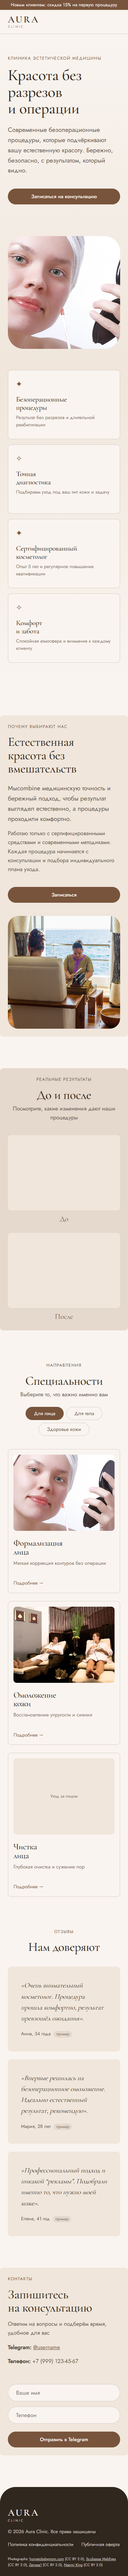
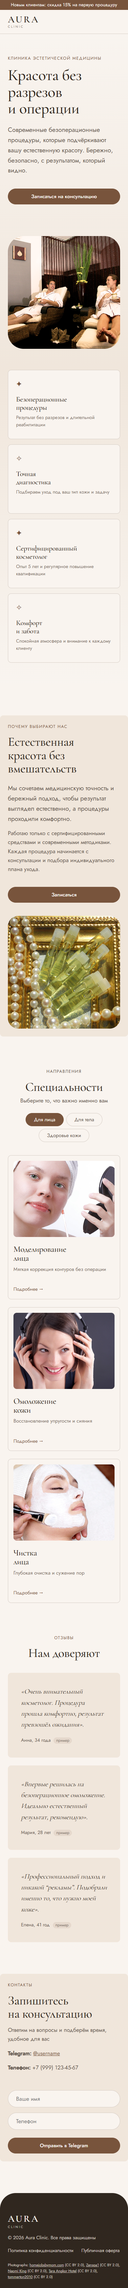
лендинг: исправление логики фото и текстовых ошибок

diff --git a/index.html b/index.html
@@ -24,7 +24,6 @@
         <ul class="nav-links">
           <li><a href="#specialties">Услуги</a></li>
           <li><a href="#about">Обо мне</a></li>
-          <li><a href="#results">Результаты</a></li>
           <li><a href="#contacts">Контакты</a></li>
         </ul>
       </nav>
@@ -42,7 +41,7 @@
         <a href="https://t.me/username" class="btn btn--primary" target="_blank" rel="noopener">Записаться на консультацию</a>
       </div>
       <div class="hero-image">
-        <div class="placeholder" data-slot="hero" data-alt="Косметолог в светлом кабинете, Portrait"></div>
+        <div class="placeholder" data-slot="hero" data-alt="Гости в халатах отдыхают в зоне SPA"></div>
       </div>
     </div>
   </section>
@@ -79,33 +78,12 @@
       <div class="about-text">
         <p class="eyebrow-note">Почему выбирают нас</p>
         <h2>Естественная красота без вмешательств</h2>
-        <p class="lead">Мыcombine медицинскую точность и бережный подход, чтобы результат выглядел естественно, а процедуры проходили комфортно.</p>
+        <p class="lead">Мы сочетаем медицинскую точность и бережный подход, чтобы результат выглядел естественно, а процедуры проходили комфортно.</p>
         <p>Работаю только с сертифицированными средствами и современными методиками. Каждая процедура начинается с консультации и подбора индивидуального плана ухода.</p>
         <a href="https://t.me/username" class="btn btn--primary" target="_blank" rel="noopener">Записаться</a>
       </div>
       <div class="about-image">
-        <div class="placeholder" data-slot="about" data-alt="Косметолог за работой в светлом кабинете"></div>
-      </div>
-    </div>
-  </section>
-
-  <!-- До / После -->
-  <section class="results" id="results">
-    <div class="container results-inner">
-      <div class="results-head">
-        <p class="eyebrow-note">Реальные результаты</p>
-        <h2>До и после</h2>
-        <p>Посмотрите, какие изменения дают наши процедуры</p>
-      </div>
-      <div class="results-grid">
-        <figure class="compare">
-          <div class="placeholder" data-slot="process-1" data-alt="Клиентка до процедуры"></div>
-          <figcaption>До</figcaption>
-        </figure>
-        <figure class="compare">
-          <div class="placeholder" data-slot="process-2" data-alt="Клиентка после процедуры"></div>
-          <figcaption>После</figcaption>
-        </figure>
+        <div class="placeholder" data-slot="about" data-alt="Средства для ухода: аромамасла"></div>
       </div>
     </div>
   </section>
@@ -125,19 +103,19 @@
       </div>
       <div class="services-grid" id="tab-face">
         <article class="service-card">
-          <div class="card-img"><div class="placeholder" data-slot="process-3" data-alt="Процедура ухода за лицом"></div></div>
-          <h3>Формализация<br>лица</h3>
+          <div class="card-img"><div class="placeholder" data-slot="process-3" data-alt="Девушка оценивает кожу лица в зеркале"></div></div>
+          <h3>Моделирование<br>лица</h3>
           <p>Мягкая коррекция контуров без операции</p>
           <span class="card-more">Подробнее →</span>
         </article>
         <article class="service-card">
-          <div class="card-img"><div class="placeholder" data-slot="process-4" data-alt="Уход за кожей лица"></div></div>
+          <div class="card-img"><div class="placeholder" data-slot="process-4" data-alt="Крупный план ухоженной кожи лица"></div></div>
           <h3>Омоложение<br>кожи</h3>
           <p>Восстановление упругости и сияния</p>
           <span class="card-more">Подробнее →</span>
         </article>
         <article class="service-card">
-          <div class="card-img"><div class="placeholder" data-slot="process-1" data-alt="Уход за лицом"></div></div>
+          <div class="card-img"><div class="placeholder" data-slot="process-1" data-alt="Нанесение очищающей маски на лицо"></div></div>
           <h3>Чистка<br>лица</h3>
           <p>Глубокая очистка и сужение пор</p>
           <span class="card-more">Подробнее →</span>

diff --git a/styles.css b/styles.css
@@ -85,16 +85,6 @@ h1, h2, h3 { font-family: var(--font-display); font-weight: 500; letter-spacing:
 .about p:not(.eyebrow-note):not(.lead) { color: var(--color-ink-2); margin-bottom: var(--space-xl); }
 .about-image .placeholder { aspect-ratio: 1; border-radius: calc(var(--radius-section) - 16px); }
 
-/* Results — before/after */
-.results { padding: 0 0 var(--space-3xl); }
-.results-inner { background: var(--color-paper-3); border-radius: var(--radius-section); padding: var(--space-3xl); }
-.results-head { text-align: center; margin-bottom: var(--space-xl); }
-.results-head h2 { font-size: clamp(2.4rem, 4vw, 3.4rem); margin-bottom: var(--space-sm); }
-.results-head p { color: var(--color-ink-2); }
-.results-grid { display: grid; grid-template-columns: 1fr 1fr; gap: var(--space-lg); }
-.compare .placeholder { aspect-ratio: 3/2; border-radius: var(--radius-card); }
-.compare figcaption { font-family: var(--font-display); font-size: 1.4rem; text-align: center; margin-top: var(--space-sm); color: var(--color-ink-2); }
-
 /* Services */
 .services { padding: 0 0 var(--space-3xl); }
 .services-head { text-align: center; margin-bottom: var(--space-lg); }
@@ -154,9 +144,9 @@ footer a { color: var(--color-rule); font-size: 0.9rem; text-decoration: none; }
   .nav-links { display: none; }
   .hero-inner, .about-inner, .contacts-inner { grid-template-columns: 1fr; }
   .hero h1 { max-width: none; }
-  .results-grid, .services-grid, .reviews-grid { grid-template-columns: 1fr; }
+  .services-grid, .reviews-grid { grid-template-columns: 1fr; }
   .strip-grid { grid-template-columns: 1fr 1fr; }
-  .about-inner, .contacts-inner, .results-inner { border-radius: var(--radius-card); padding: var(--space-lg); }
+  .about-inner, .contacts-inner { border-radius: var(--radius-card); padding: var(--space-lg); }
   .nav-cta { display: none; }
 }
 @media (max-width: 480px) {

diff --git a/script.js b/script.js
@@ -19,19 +19,19 @@ function hallmarkSlots(slots) {
 
 document.addEventListener('DOMContentLoaded', () => {
   hallmarkSlots({
-    hero: 'images/about.jpg',
-    about: 'images/process-mask.jpg',
-    'process-1': 'images/process-consultation.jpg',
-    'process-2': 'images/process-result.jpg',
+    hero: 'images/process-finish.jpg',
+    about: 'images/process-result.jpg',
     'process-3': 'images/about.jpg',
-    'process-4': 'images/process-finish.jpg',
+    'process-4': 'images/beauty-face.jpg',
+    'process-1': 'images/process-consultation.jpg',
   });
 
   const credits = {
     a: '<a href="https://www.flickr.com/photos/76588981@N02/11179260694" target="_blank" rel="noopener">homejobsbymom.com</a> (CC BY 2.0)',
-    b: '<a href="https://www.flickr.com/photos/145748390@N03/30273731091" target="_blank" rel="noopener">Scubaspa Maldives</a> (CC BY 2.0)',
-    c: '<a href="https://www.flickr.com/photos/93609956@N05/9865582355" target="_blank" rel="noopener">Zenspa1</a> (CC BY 2.0)',
-    d: '<a href="https://www.flickr.com/photos/22141297@N06/7798556096" target="_blank" rel="noopener">Naomi King</a> (CC BY 2.0)',
+    b: '<a href="https://www.flickr.com/photos/93609956@N05/9865582355" target="_blank" rel="noopener">Zenspa1</a> (CC BY 2.0)',
+    c: '<a href="https://www.flickr.com/photos/22141297@N06/7798556096" target="_blank" rel="noopener">Naomi King</a> (CC BY 2.0)',
+    d: '<a href="https://www.flickr.com/photos/47808661@N07/5918124637" target="_blank" rel="noopener">Tara Angkor Hotel</a> (CC BY 2.0)',
+    e: '<a href="https://www.flickr.com/photos/58842866@N08/5388130101" target="_blank" rel="noopener">tommerton2010</a> (CC BY 2.0)',
   };
   const creditEl = document.querySelector('[data-credits]');
   if (creditEl) creditEl.innerHTML = 'Photographs: ' + Object.values(credits).join(', ');
